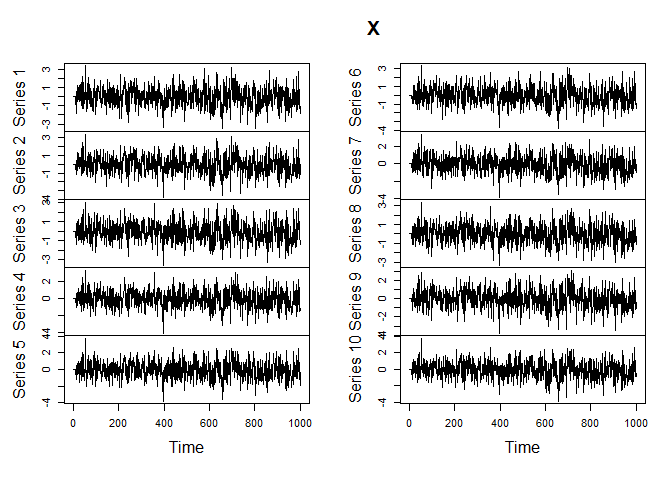
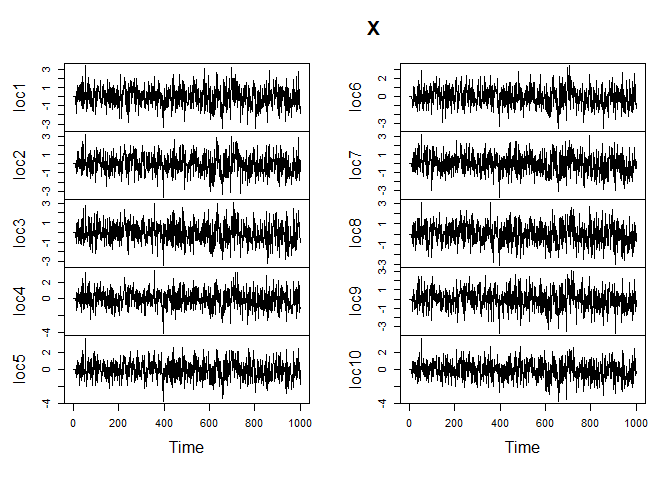
2023-07-31

diff --git a/README.md b/README.md
@@ -29,26 +29,24 @@ To simulate a MCGF with fully symmetric covariance structure, we first
 create distance arrays for 10 locations:
 
 ``` r
+library(mcgf)
 set.seed(123)
-dist1 <- rnorm(sum(1:9), mean = 0, sd = 100)
-dist2 <- rnorm(sum(1:9), mean = 0, sd = 100)
-
-h1 <- h2 <- matrix(NA, nrow = 10, ncol = 10)
-h1[upper.tri(h1)] <- dist1
-h2[upper.tri(h2)] <- dist2
-diag(h2) <- diag(h1) <- 0
-h1[lower.tri(h1)] <- -t(h1)[lower.tri(h1)]
-h2[lower.tri(h2)] <- -t(h2)[lower.tri(h2)]
-h <- sqrt(h1 ^ 2 + h2 ^ 2)
-
-dists <- list(h = h, h1 = h1, h2 = h2)
+dists <- rdists(10)
+#> The legacy packages maptools, rgdal, and rgeos, underpinning the sp package,
+#> which was just loaded, will retire in October 2023.
+#> Please refer to R-spatial evolution reports for details, especially
+#> https://r-spatial.org/r/2023/05/15/evolution4.html.
+#> It may be desirable to make the sf package available;
+#> package maintainers should consider adding sf to Suggests:.
+#> The sp package is now running under evolution status 2
+#>      (status 2 uses the sf package in place of rgdal)
 ```
 
 Next, we simulate a MCGF.
 
 ``` r
 library(mcgf)
-par_s <- list(nugget = 0.1, c = 0.001, gamma = 0.3)
+par_s <- list(nugget = 0.2, c = 0.001, gamma = 0.3)
 par_t <- list(a = 5, alpha = 0.5)
 par_base <- list(par_s = par_s, par_t = par_t)
 
@@ -83,28 +81,27 @@ To find the weighted least squares, we can run
 
 ``` r
 fit_base(x = x_mcgf, lag = 10, model = "sep", optim_fn = "nlminb",
-         par_init = list(a = 1, alpha = 0.5, nugget = 0.2, c = 0.001, 
-                         gamma = 0.3),
-         method = "wls")
+         par_init = list(a = 1, alpha = 0.5, nugget = 0.1, c = 0.001, 
+                         gamma = 0.5), method = "wls")
 #> $par
-#>         c     gamma    nugget         a     alpha 
-#> 0.0000000 0.2471450 0.0000000 4.6845646 0.4749422 
+#>            c        gamma       nugget            a        alpha 
+#> 3.226771e-05 5.000000e-01 2.056779e-01 4.068848e+00 5.096764e-01 
 #> 
 #> $objective
-#> [1] 0.8006263
+#> [1] 1.000885
 #> 
 #> $convergence
-#> [1] 0
+#> [1] 1
 #> 
 #> $iterations
-#> [1] 15
+#> [1] 150
 #> 
 #> $evaluations
 #> function gradient 
-#>       18      110 
+#>      192      821 
 #> 
 #> $message
-#> [1] "relative convergence (4)"
+#> [1] "iteration limit reached without convergence (10)"
 #> 
 #> $par_names
 #> [1] "c"      "gamma"  "nugget" "a"      "alpha"
@@ -114,25 +111,24 @@ To find the maximum likelihood estimates, we run
 
 ``` r
 fit_base(x = x_mcgf, lag = 10, model = "sep", optim_fn = "nlminb",
-         par_init = list(a = 1, alpha = 0.5, nugget = 0.2, c = 0.001, 
-                         gamma = 0.3),
-         method = "mle")
+         par_init = list(a = 1, alpha = 0.5, nugget = 0.1, c = 0.001, 
+                         gamma = 0.5), method = "mle")
 #> $par
-#>            c        gamma       nugget            a        alpha 
-#> 0.0001008375 0.5000000000 0.0990811226 4.9403736621 0.5123058177 
+#>           c       gamma      nugget           a       alpha 
+#> 0.008520959 0.167558413 0.172344741 4.945943574 0.510839525 
 #> 
 #> $objective
-#> [1] -7559.687
+#> [1] -1927.716
 #> 
 #> $convergence
 #> [1] 0
 #> 
 #> $iterations
-#> [1] 121
+#> [1] 76
 #> 
 #> $evaluations
 #> function gradient 
-#>      178      706 
+#>      106      527 
 #> 
 #> $message
 #> [1] "relative convergence (4)"
@@ -141,27 +137,22 @@ fit_base(x = x_mcgf, lag = 10, model = "sep", optim_fn = "nlminb",
 #> [1] "c"      "gamma"  "nugget" "a"      "alpha"
 ```
 
-## Regime-Switching MCGF
-
-Regime-switching MCGF can be simulated as
-
-``` r
-par_s <- list(nugget = 0.5, c = 0.01, gamma = 0.5)
-par_t <- list(a = 1, alpha = 0.5)
-par_base <- list(par_s = par_s, par_t = par_t)
-par_lagr <- list(v1 = 5, v2 = 10)
-
-set.seed(123)
-labels <- sample(1:2, 1000, replace = TRUE)
-X <- mcgf_rs_sim(N = 1000,
-                 labels = labels,
-                 base_ls = list("sep"),
-                 lagrangian_ls = list("none", "lagr_tri"),
-                 lambda_ls = list(0, 0.5),
-                 par_base_ls = list(par_base),
-                 par_lagr_ls = list(NULL, par_lagr),
-                 dists_ls = list(dists, dists))
-plot.ts(X[, -1])
-```
-
-<img src="man/figures/README-unnamed-chunk-8-1.png" width="100%" />
+<!-- ## Regime-Switching MCGF -->
+<!-- Regime-switching MCGF can be simulated as -->
+<!-- ```{r, warning=FALSE,error=FALSE} -->
+<!-- par_s <- list(nugget = 0.5, c = 0.01, gamma = 0.5) -->
+<!-- par_t <- list(a = 1, alpha = 0.5) -->
+<!-- par_base <- list(par_s = par_s, par_t = par_t) -->
+<!-- par_lagr <- list(v1 = 5, v2 = 10) -->
+<!-- set.seed(123) -->
+<!-- labels <- sample(1:2, 1000, replace = TRUE) -->
+<!-- X <- mcgf_rs_sim(N = 1000, -->
+<!--                  labels = labels, -->
+<!--                  base_ls = list("sep"), -->
+<!--                  lagrangian_ls = list("none", "none"), -->
+<!--                  lambda_ls = list(0, 0.5), -->
+<!--                  par_base_ls = list(par_base), -->
+<!--                  par_lagr_ls = list(NULL, par_lagr), -->
+<!--                  dists_ls = list(dists, dists)) -->
+<!-- plot.ts(X[, -1]) -->
+<!-- ``` -->
